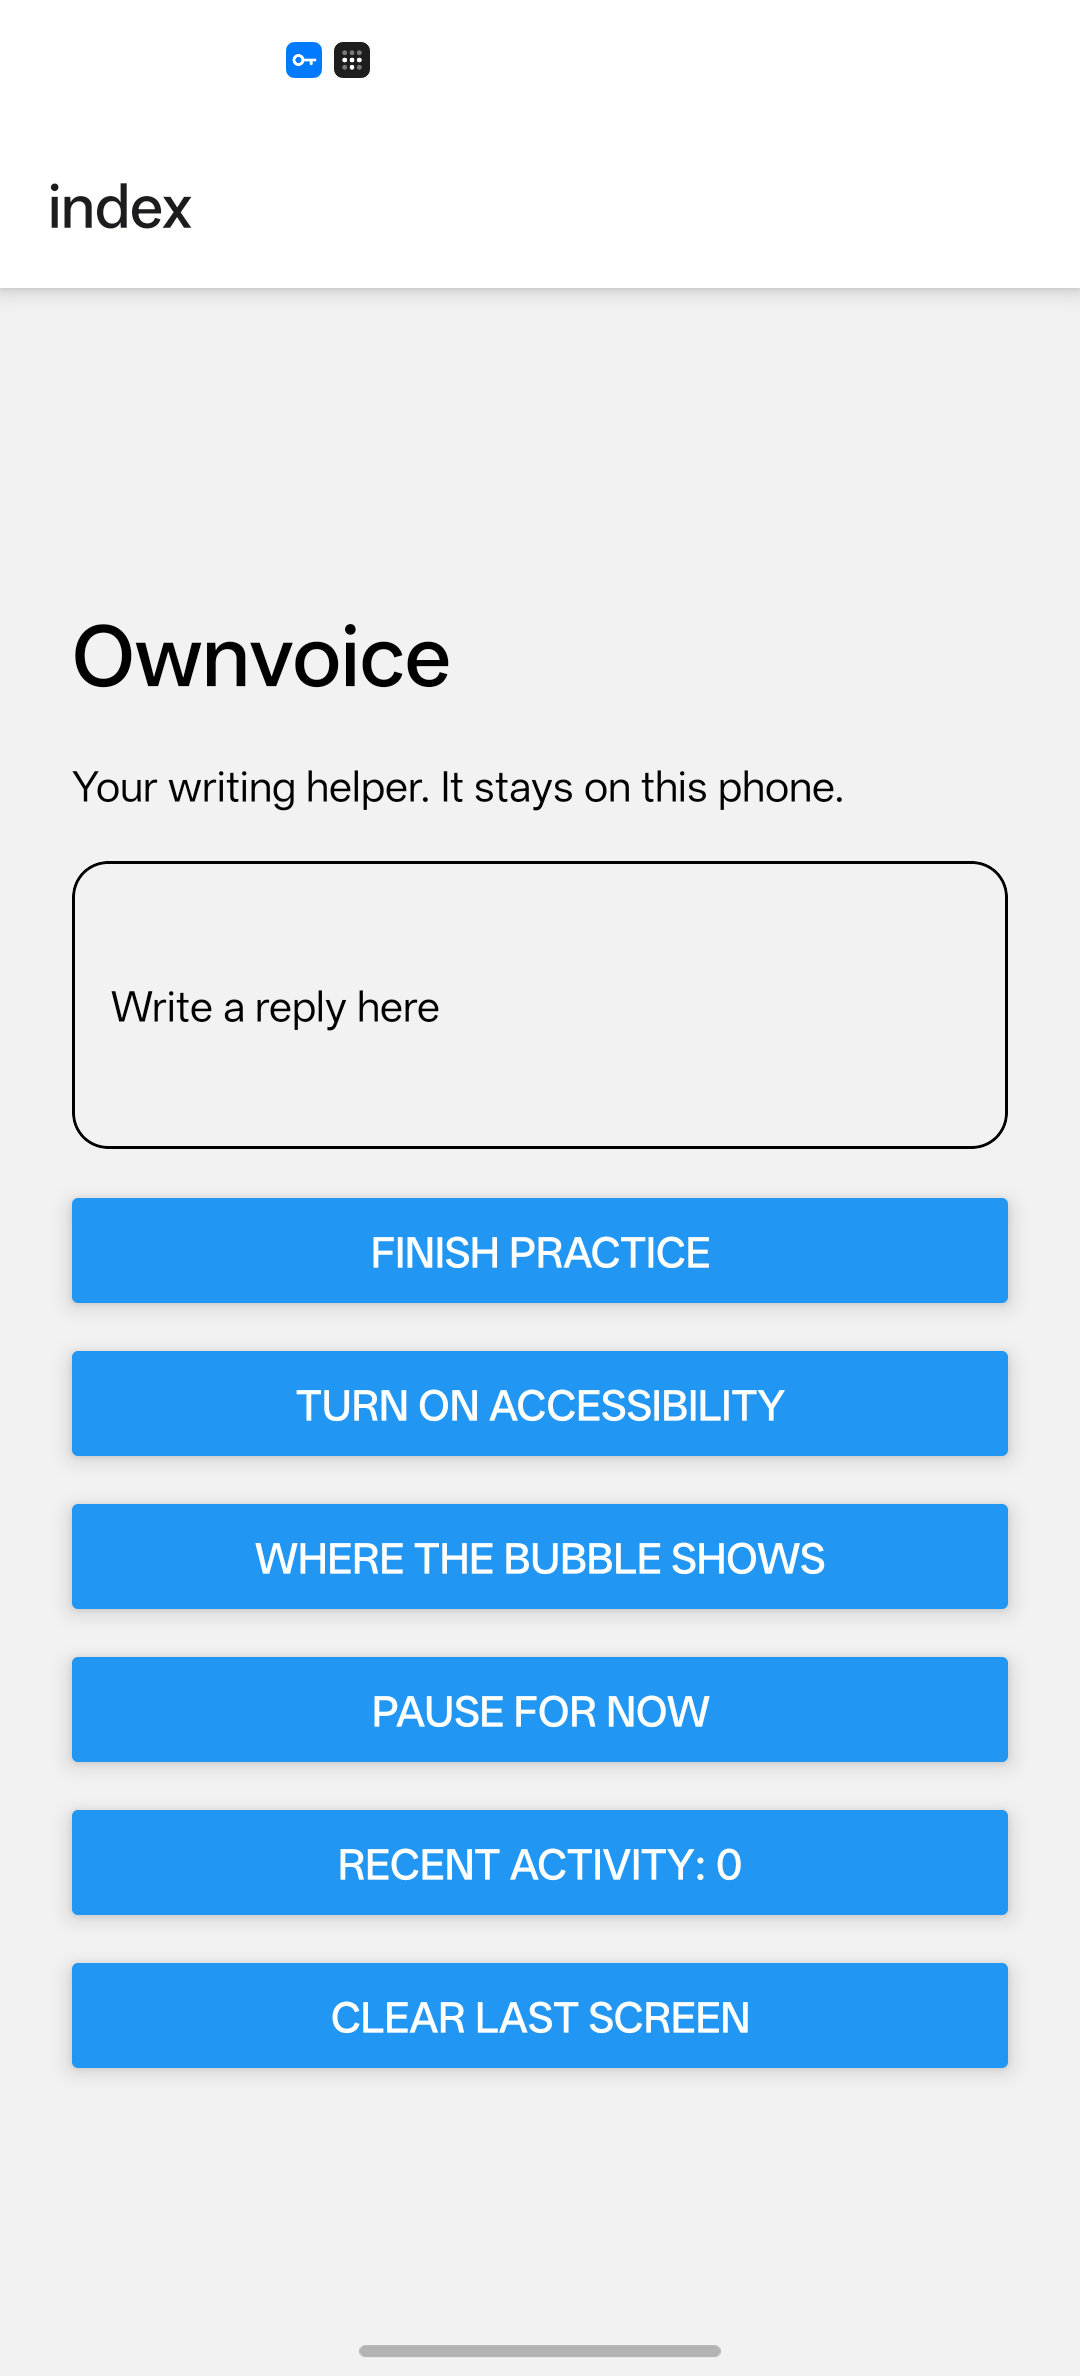
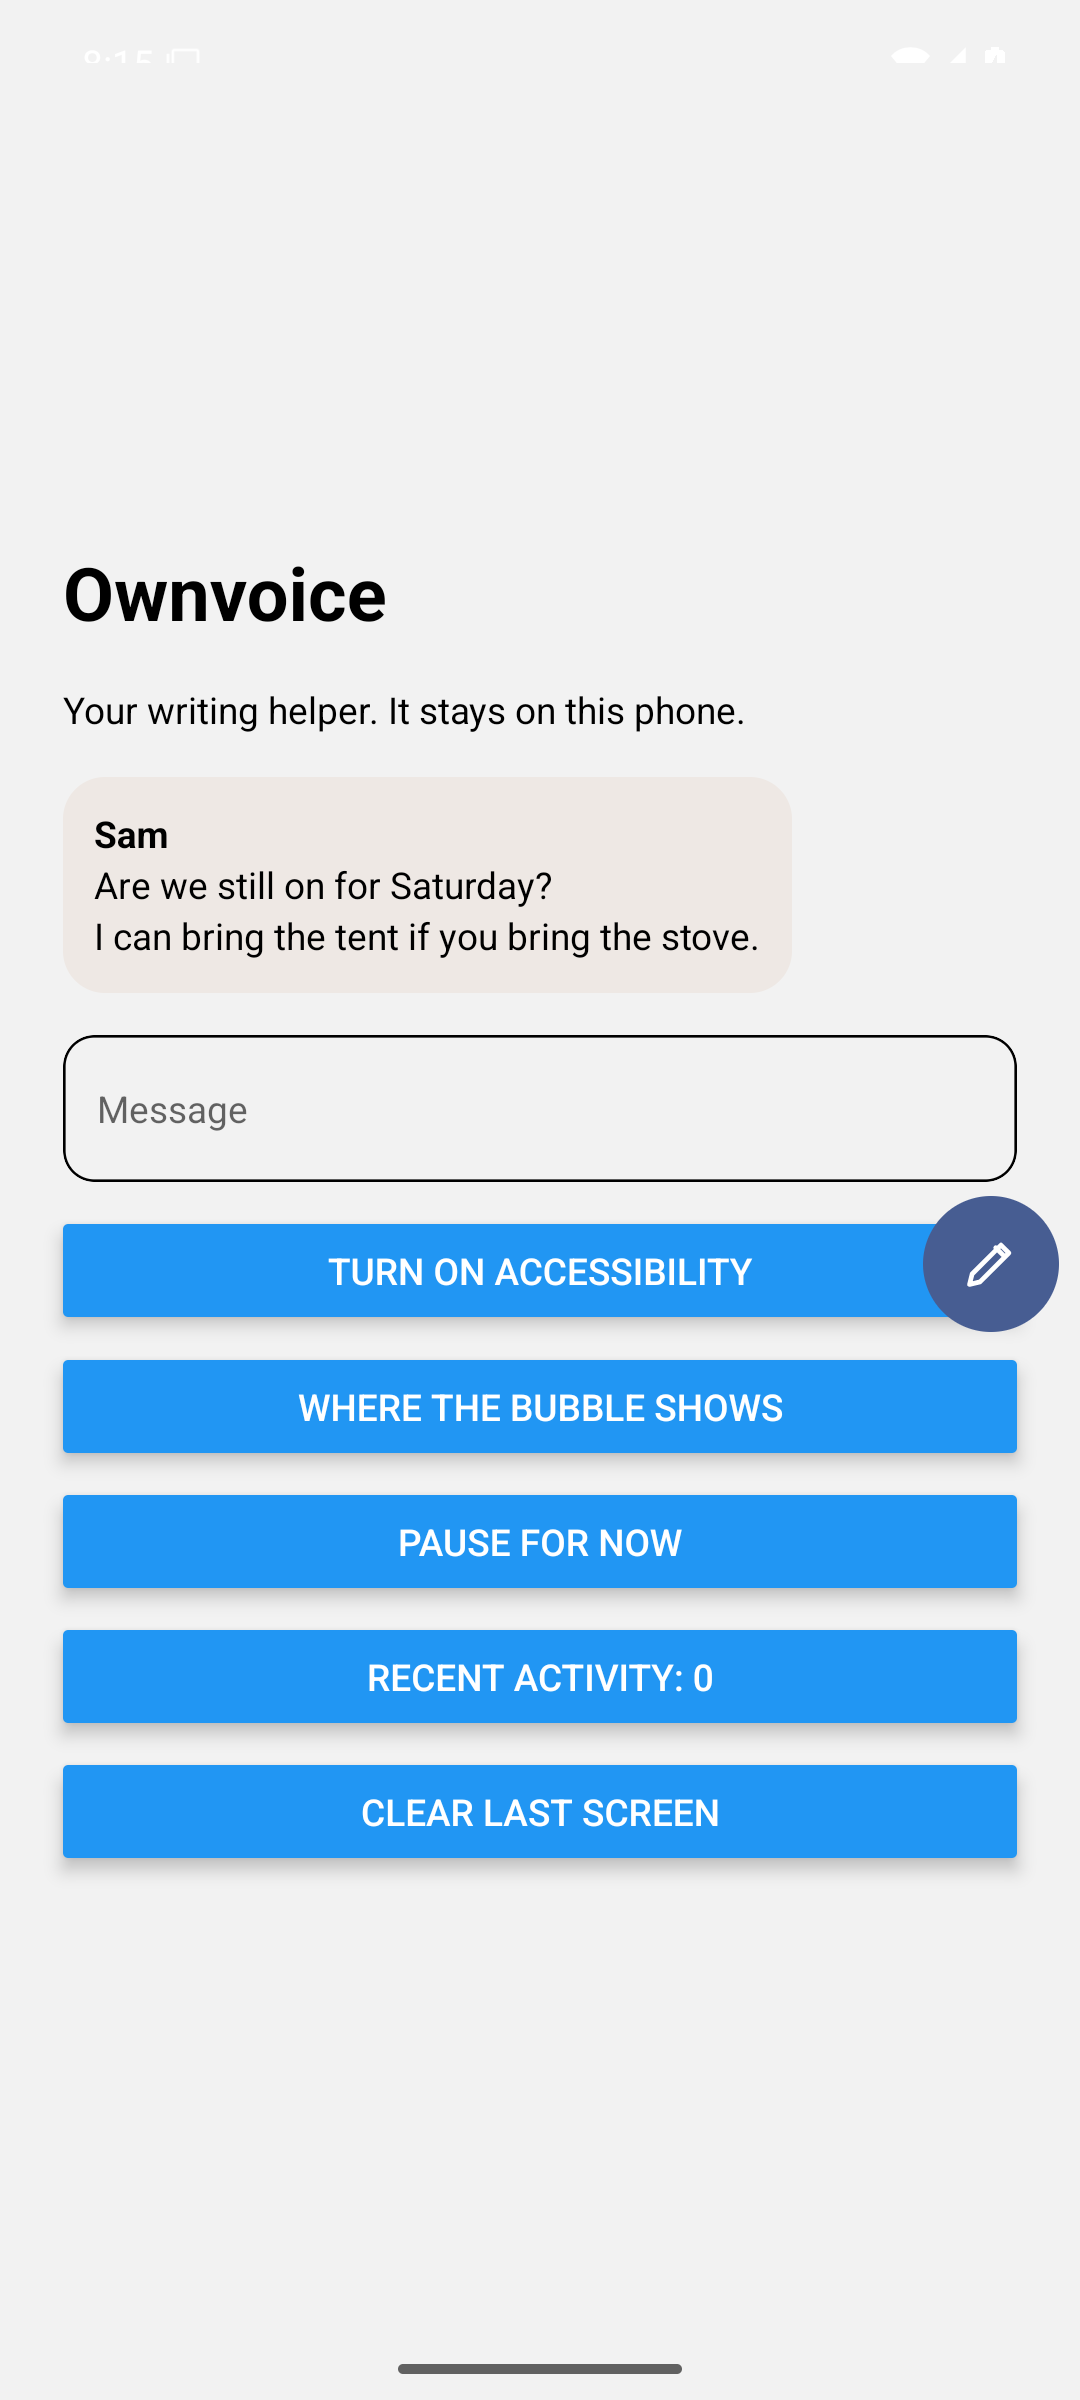
fix(mobile): clean phone drafts and skip hint text

diff --git a/mobile/src/panel/phoneWriter.ts b/mobile/src/panel/phoneWriter.ts
@@ -1,19 +1,78 @@
 import Native from '../../modules/ownvoice-native';
+import { clean } from '../core/judge';
 import { message } from '../core/nano';
 import type { DraftRequest, Writer } from '../core/writers';
 
+const count = 3;
+const numbered = /(?:^|\s)(?:(?:draft|option|version)\s*)?([1-3])[.):]\s+/gi;
+
+function body(text: string) {
+  const lines = text.trim().split(/\r?\n/);
+  const first = lines[0]?.trim() ?? '';
+  if (/^(?:(?:okay|sure)[,!.]?\s*)?(?:here (?:are|is)|these are|below are)\b/i.test(first) &&
+    (/\b(?:versions?|options?|drafts?)\b/i.test(first) || first.endsWith(':'))) {
+    const colon = first.indexOf(':');
+    lines[0] = colon < 0 ? '' : first.slice(colon + 1).trim();
+  }
+  return lines.join('\n').trim();
+}
+
+function parts(text: string) {
+  const value = body(text);
+  const markers: { start: number; end: number }[] = [];
+  for (const match of value.matchAll(numbered)) markers.push({ start: match.index! + match[0].search(/\S/), end: match.index! + match[0].length });
+  if (markers.length > 1 && value.slice(0, markers[0].start).trim() === '' && value.slice(markers[0].start).startsWith('1')) {
+    return markers.map((marker, index) => value.slice(marker.end, markers[index + 1]?.start ?? value.length));
+  }
+  const lines = value.split(/\r?\n/);
+  const list = lines.map((line, index) => ({ line, index })).filter(({ line }) => /^\s*[-*•]\s+/.test(line));
+  if (list.length > 1) return list.map(({ line }, index) => [line.replace(/^\s*[-*•]\s+/, ''), ...lines.slice(list[index].index + 1, list[index + 1]?.index ?? lines.length)].join('\n'));
+  return [value];
+}
+
+export function cleanDrafts(candidates: string[], limit = count) {
+  const drafts: string[] = [];
+  for (const candidate of candidates) {
+    for (const part of parts(candidate)) {
+      const draft = clean(part).replace(/^\s*(?:(?:draft|option|version)\s*)?[1-3][.):]\s*/i, '')
+        .replace(/^"([\s\S]*)"$/, '$1').replace(/^“([\s\S]*)”$/, '$1')
+        .replace(/^'([\s\S]*)'$/, '$1').replace(/^‘([\s\S]*)’$/, '$1').trim();
+      const key = draft.toLowerCase().replace(/\s+/g, ' ');
+      if (draft && !drafts.some(value => value.toLowerCase().replace(/\s+/g, ' ') === key)) drafts.push(draft);
+      if (drafts.length === limit) return drafts;
+    }
+  }
+  return drafts;
+}
+
+function prompt({ conversation, typed, guide }: DraftRequest) {
+  const rules = guide ? ` Follow their rules: ${guide}` : '';
+  return typed.trim()
+    ? `Improve this message someone wrote on their phone. Return exactly one short natural version, in the same language and tone. Do not give alternatives.${rules} Output only the message text.\n\nTheir message:\n${typed}`
+    : `You help someone reply in a chat.\nWrite exactly one short, natural reply to the latest message, in the conversation's language and tone. Use only the facts shown; don't invent details or give alternatives.${rules} Output only the reply text.\n\nConversation:\n${conversation.slice(-3000)}`;
+}
+
+async function fallback(promptText: string) {
+  const drafts: string[] = [];
+  for (let version = 0; version < count; version++) {
+    const text = await Native.ask(`phone-draft-${Date.now()}-${version}`, `${promptText}\n\nReturn a different version from the other replies: ${version + 1}. Return only one message, with no preamble, quotes, or numbering.`, { maxTokens: 120 });
+    const [draft] = cleanDrafts([text], 1);
+    if (draft && !drafts.some(value => value.toLowerCase().replace(/\s+/g, ' ') === draft.toLowerCase().replace(/\s+/g, ' '))) drafts.push(draft);
+  }
+  return drafts;
+}
+
 export const phoneWriter = {
-  async write({ conversation, typed, guide }: DraftRequest, onState: (state: 'downloading' | 'writing') => void = () => {}) {
+  async write(request: DraftRequest, onState: (state: 'downloading' | 'writing') => void = () => {}) {
     try {
       if (await Native.modelStatus() !== 'available') {
         onState('downloading');
         await Native.downloadModel();
       }
       onState('writing');
-      const prompt = typed.trim()
-        ? `Improve this message someone wrote on their phone. Return one short natural version, in the same language and tone. ${guide ? `Follow their rules: ${guide} ` : ''}Output only the message text, without a preamble or numbering.\n\nTheir message:\n${typed}`
-        : `You help someone reply in a chat. Below is the text visible on their screen; it may include app labels.\nWrite one short, natural reply they could send next, in the conversation's language and tone. ${guide ? `Follow their rules: ${guide} ` : ''}Output only the reply text.\n\nScreen:\n${conversation.slice(-3000)}`;
-      return await Native.drafts(prompt, { candidates: 3, maxTokens: 120, temperature: 0.9, topK: 40 });
+      const promptText = prompt(request);
+      const drafts = cleanDrafts(await Native.drafts(promptText, { candidates: count, maxTokens: 120, temperature: 0.9, topK: 40 }));
+      return drafts.length === count ? drafts : await fallback(promptText);
     } catch (error) {
       const code = Number(String(error).match(/(?:^|\D)(-?\d{1,3})(?:\D|$)/)?.[1]);
       throw new Error(message(Number.isFinite(code) ? code : -107));

diff --git a/mobile/src/panel/__tests__/phoneWriter.test.ts b/mobile/src/panel/__tests__/phoneWriter.test.ts
@@ -1,19 +1,20 @@
 jest.mock('../../../modules/ownvoice-native', () => ({ __esModule: true, default: {
-  modelStatus: jest.fn(), downloadModel: jest.fn(), drafts: jest.fn(),
+  modelStatus: jest.fn(), downloadModel: jest.fn(), drafts: jest.fn(), ask: jest.fn(),
 } }));
 import Native from '../../../modules/ownvoice-native';
 import { words } from '../../core/words';
-import { phoneWriter } from '../phoneWriter';
+import { cleanDrafts, phoneWriter } from '../phoneWriter';
 
 const native = Native as jest.Mocked<typeof Native>;
+beforeEach(() => { native.modelStatus.mockReset(); native.downloadModel.mockReset(); native.drafts.mockReset(); native.ask.mockReset(); });
 
 test('gets the model ready and returns drafts for the message in the field', async () => {
   native.modelStatus.mockResolvedValue('downloadable');
   native.downloadModel.mockResolvedValue();
   const states: string[] = [];
   native.downloadModel.mockImplementation(async () => { expect(states).toEqual(['downloading']); });
-  native.drafts.mockImplementation(async () => { expect(states).toEqual(['downloading', 'writing']); return ['First', 'Second']; });
-  await expect(phoneWriter.write({ conversation: '', written: '', typed: 'hello', guide: '' }, state => states.push(state))).resolves.toEqual(['First', 'Second']);
+  native.drafts.mockImplementation(async () => { expect(states).toEqual(['downloading', 'writing']); return ['First', 'Second', 'Third']; });
+  await expect(phoneWriter.write({ conversation: '', written: '', typed: 'hello', guide: '' }, state => states.push(state))).resolves.toEqual(['First', 'Second', 'Third']);
   expect(native.downloadModel).toHaveBeenCalled();
   expect(native.drafts.mock.calls[0][0]).toContain('hello');
   expect(native.drafts.mock.calls[0][0]).toContain('one short natural version');
@@ -21,13 +22,30 @@ test('gets the model ready and returns drafts for the message in the field', asy
 
 test('whitespace in the field selects a reply to the conversation', async () => {
   native.modelStatus.mockResolvedValue('available');
-  native.drafts.mockResolvedValue(['See you there.']);
+  native.drafts.mockResolvedValue(['See you there.', 'I will be there.', 'Sounds good.']);
   const states: string[] = [];
   const conversation = 'Earlier chat.\n' + 'x'.repeat(3000) + '\nSee you at noon?';
-  await expect(phoneWriter.write({ conversation, written: 'See you at noon?', typed: '   ' }, state => states.push(state))).resolves.toEqual(['See you there.']);
+  await expect(phoneWriter.write({ conversation, written: 'See you at noon?', typed: '   ' }, state => states.push(state))).resolves.toEqual(['See you there.', 'I will be there.', 'Sounds good.']);
   expect(states).toEqual(['writing']);
-  expect(native.drafts.mock.calls.at(-1)?.[0]).toContain('Screen:\n' + conversation.slice(-3000));
+  expect(native.drafts.mock.calls.at(-1)?.[0]).toContain('Conversation:\n' + conversation.slice(-3000));
   expect(native.drafts.mock.calls.at(-1)?.[0]).not.toContain('Improve this message');
+});
+
+test('cleans preambles, numbering and quotes into one draft per card', () => {
+  expect(cleanDrafts(['Okay, here are three short, natural versions:\n1. "Are we still on?"\n2. ‘I can bring the tent.’\n3) See you Saturday!'])).toEqual([
+    'Are we still on?', 'I can bring the tent.', 'See you Saturday!',
+  ]);
+});
+
+test('falls back to one streamed call per draft when candidates cannot be split', async () => {
+  native.modelStatus.mockResolvedValue('available');
+  native.drafts.mockResolvedValue(['Only one reply.']);
+  native.ask.mockResolvedValueOnce('Here\'s the reply:\n"Sounds good!"')
+    .mockResolvedValueOnce('"I can bring it."').mockResolvedValueOnce('‘See you then!’');
+  await expect(phoneWriter.write({ conversation: 'Sam: Are we still on?\nI can bring the tent.', written: '', typed: '' })).resolves.toEqual([
+    'Sounds good!', 'I can bring it.', 'See you then!',
+  ]);
+  expect(native.ask).toHaveBeenCalledTimes(3);
 });
 
 test('turns native error codes into the app words', async () => {

diff --git a/mobile/modules/ownvoice-native/android/src/main/java/dev/ownvoice/bridge/OwnvoiceService.kt b/mobile/modules/ownvoice-native/android/src/main/java/dev/ownvoice/bridge/OwnvoiceService.kt
@@ -21,6 +21,12 @@ import android.view.accessibility.AccessibilityNodeInfo
 import android.view.accessibility.AccessibilityWindowInfo
 import android.widget.TextView
 
+internal fun accessibleText(text: CharSequence?, isShowingHintText: Boolean): String? =
+  text?.takeUnless { isShowingHintText }?.toString()
+
+internal fun capturedInputText(text: CharSequence?, isShowingHintText: Boolean): String =
+  accessibleText(text, isShowingHintText).orEmpty()
+
 class OwnvoiceService : AccessibilityService() {
   companion object {
     const val TAG = "OwnvoiceNative"
@@ -131,7 +137,7 @@ class OwnvoiceService : AccessibilityService() {
     val field = focusedField()
     val lines = mutableListOf<String>(); val written = mutableListOf<String>()
     (field?.window?.root ?: appRoot())?.let { visibleText(it, field, lines, written) }
-    val typed = field?.takeUnless { it.isShowingHintText }?.text?.toString().orEmpty()
+    val typed = capturedInputText(field?.text, field?.isShowingHintText == true)
     val label = runCatching { packageManager.getApplicationLabel(packageManager.getApplicationInfo(app, 0)).toString() }.getOrDefault(app)
     val reading = Capture(lines.joinToString("\n"), written.joinToString("\n"), typed, app, label, System.currentTimeMillis(), field)
     synchronized(facts) { facts += TapFact(reading.at, app, label, lines.isNotEmpty(), typed.isNotEmpty(), typed.isEmpty() && written.isNotEmpty()) }
@@ -153,7 +159,7 @@ class OwnvoiceService : AccessibilityService() {
   private fun visibleText(root: AccessibilityNodeInfo, skip: AccessibilityNodeInfo?, lines: MutableList<String>, written: MutableList<String>) {
     fun walk(node: AccessibilityNodeInfo) {
       if (node == skip || !node.isVisibleToUser) return
-      (node.text ?: node.contentDescription)?.toString()?.trim()?.takeIf { it.isNotEmpty() }?.let { if (lines.lastOrNull() != it) lines += it; if (node.text != null && !node.isEditable) written += it }
+      accessibleText(node.text ?: node.contentDescription, node.isShowingHintText)?.trim()?.takeIf { it.isNotEmpty() }?.let { if (lines.lastOrNull() != it) lines += it; if (node.text != null && !node.isEditable) written += it }
       for (i in 0 until node.childCount) node.getChild(i)?.let(::walk)
     }
     walk(root)

diff --git a/mobile/app/index.tsx b/mobile/app/index.tsx
@@ -7,7 +7,7 @@ import type { TapFact } from '../modules/ownvoice-native';
 type Rules = { paused: boolean; on: string[]; off: string[] };
 const native = () => require('../modules/ownvoice-native').default;
 export default function Home() {
-  const [text, setText] = useState('Write a reply here');
+  const [text, setText] = useState('');
   const [rules, setRules] = useState<Rules | null>(null);
   const [activity, setActivity] = useState(0);
   const [apps, setApps] = useState<{ app: string; label: string }[] | null>(null);
@@ -46,7 +46,12 @@ export default function Home() {
   return <View style={{ flex: 1, justifyContent: 'center', padding: 24, gap: 16 }}>
     <Text style={{ fontSize: 28, fontWeight: '700' }}>Ownvoice</Text>
     <Text>{words.home}</Text>
-    <TextInput accessibilityLabel="Ownvoice test message" value={text} onChangeText={setText} multiline style={{ minHeight: 96, borderWidth: 1, borderRadius: 12, padding: 12 }} />
+    <View style={{ alignSelf: 'flex-start', maxWidth: '92%', padding: 12, borderRadius: 16, backgroundColor: '#eee8e4' }}>
+      <Text style={{ fontWeight: '700' }}>Sam</Text>
+      <Text>Are we still on for Saturday?</Text>
+      <Text>I can bring the tent if you bring the stove.</Text>
+    </View>
+    <TextInput accessibilityLabel="Message" placeholder="Message" value={text} onChangeText={setText} multiline style={{ minHeight: 56, borderWidth: 1, borderRadius: 12, padding: 12 }} />
     <Button title="Turn on accessibility" onPress={() => { void native().openAccessibilitySettings().catch(() => {}); }} />
     <Button disabled={!rules} title="Where the bubble shows" onPress={() => { void native().launcherApps().then(setApps).catch(() => {}); }} />
     <Button disabled={!rules} title={rules?.paused ? 'Resume' : 'Pause for now'} onPress={() => { if (rules) change(current => ({ ...current, paused: !current.paused })); }} />

diff --git a/mobile/modules/ownvoice-native/android/src/main/java/dev/ownvoice/bridge/PhoneModel.kt b/mobile/modules/ownvoice-native/android/src/main/java/dev/ownvoice/bridge/PhoneModel.kt
@@ -3,6 +3,7 @@ package dev.ownvoice.bridge
 import com.google.mlkit.genai.common.DownloadStatus
 import com.google.mlkit.genai.common.FeatureStatus
 import com.google.mlkit.genai.common.GenAiException
+import android.util.Log
 import com.google.mlkit.genai.prompt.Generation
 import com.google.mlkit.genai.prompt.TextPart
 import com.google.mlkit.genai.prompt.generateContentRequest
@@ -13,11 +14,15 @@ import kotlinx.coroutines.launch
 internal object PhoneModel {
   private val model by lazy { Generation.getClient() }
 
-  suspend fun status(): String = when (model.checkStatus()) {
-    FeatureStatus.AVAILABLE -> "available"
-    FeatureStatus.DOWNLOADABLE -> "downloadable"
-    FeatureStatus.DOWNLOADING -> "downloading"
-    else -> "unavailable"
+  suspend fun status(): String {
+    val state = when (model.checkStatus()) {
+      FeatureStatus.AVAILABLE -> "available"
+      FeatureStatus.DOWNLOADABLE -> "downloadable"
+      FeatureStatus.DOWNLOADING -> "downloading"
+      else -> "unavailable"
+    }
+    Log.i(OwnvoiceService.TAG, "model status $state")
+    return state
   }
 
   suspend fun download(progress: (Float) -> Unit) {

diff --git a/mobile/modules/ownvoice-native/android/src/test/java/dev/ownvoice/bridge/CapturedInputTextTest.kt b/mobile/modules/ownvoice-native/android/src/test/java/dev/ownvoice/bridge/CapturedInputTextTest.kt
@@ -1,0 +1,14 @@
+package dev.ownvoice.bridge
+
+import org.junit.Assert.assertEquals
+import org.junit.Test
+
+class CapturedInputTextTest {
+  @Test fun hintTextIsNotCapturedAsUserWords() {
+    assertEquals(null, accessibleText("Message", true))
+    assertEquals("", capturedInputText("Message", true))
+    assertEquals("Reply", accessibleText("Reply", false))
+    assertEquals("Reply", capturedInputText("Reply", false))
+    assertEquals("", capturedInputText(null, false))
+  }
+}

diff --git a/mobile/app/_layout.tsx b/mobile/app/_layout.tsx
@@ -1,2 +1,2 @@
 import { Stack } from 'expo-router';
-export default function Layout(){return <Stack/>;}
+export default function Layout(){return <Stack screenOptions={{headerShown:false}}/>;}

diff --git a/mobile/reports/OWNVOICE-RN-03.md b/mobile/reports/OWNVOICE-RN-03.md
@@ -1,10 +1,12 @@
-# Slice 3 phone evidence
+# Slice 3 emulator evidence
 
-On the owner's OnePlus 13 (`a4b93ea2`), installed release `dev.ownvoice.next` beside the existing `dev.ownvoice.app`. With the Kotlin accessibility service off and the new service on, the practice screen produced non-stub phone-model drafts in the new panel. The first screenshot containing drafts was captured 5.405 seconds after tapping the bubble, so first-draft time was **at most 5.4 seconds**.
+Installed the release `dev.ownvoice.next` APK on the worktree-owned `ownvoice-rn-3` AVD (Android 35, x86_64). The practice screen shows the requested fictional Sam conversation and an empty `Message` field. The router header is hidden. Only the Ownvoice accessibility service was enabled in this AVD; no physical phone was used after the device reservation instruction, and no message was sent.
 
-The screenshots use only Ownvoice's own screen and made-up practice text:
+Tapping the bubble showed the plain-language unsupported-phone message. The native status log recorded the exact model status **`unavailable`**. The download path therefore stopped before starting a download; no progress or model-generated drafts were available on this emulator, so first-draft timing and live streaming remain unverified here.
+
+Screenshots (both captured from the emulator, showing only Ownvoice):
 
 - `OWNVOICE-RN-03-01-practice.png`
-- `OWNVOICE-RN-03-02-phone-drafts.png`
+- `OWNVOICE-RN-03-02-model-unavailable.png` (shows the unsupported-phone result; it does not show generated drafts)
 
-After testing, the Kotlin service was switched back on and the new service off. Verified `dev.ownvoice.next` remains installed. No credentials were read or copied, and no installed-tool configuration was changed; build homes and caches were under `.lab/` in this worktree.
+Local checks: 81 mobile Jest tests, TypeScript typecheck, ESLint, the native hint-text unit test, and the release build passed. The tests cover numbered/preambled output cleaning, one-call-per-version fallback, and excluding input hint text. Emulator status evidence is from `adb -s emulator-5580 logcat -d -s OwnvoiceNative`: `model status unavailable`.
